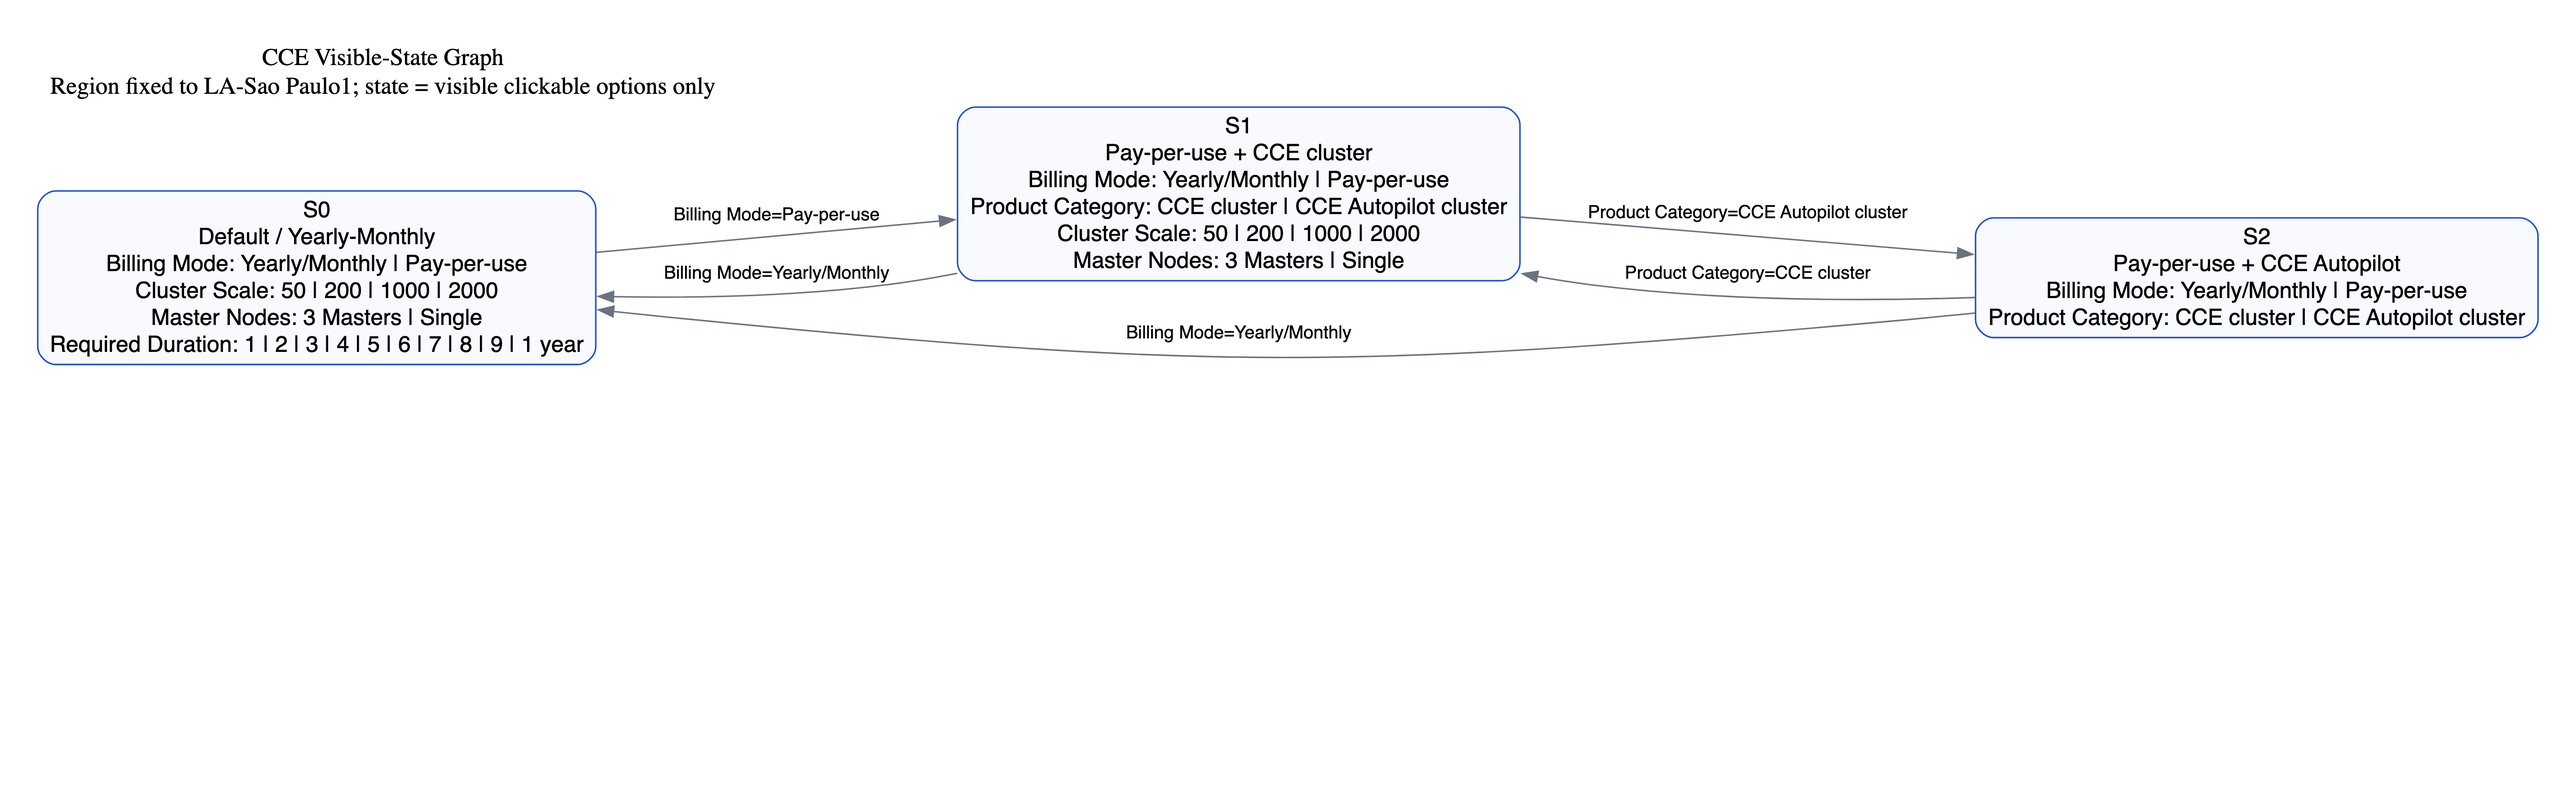
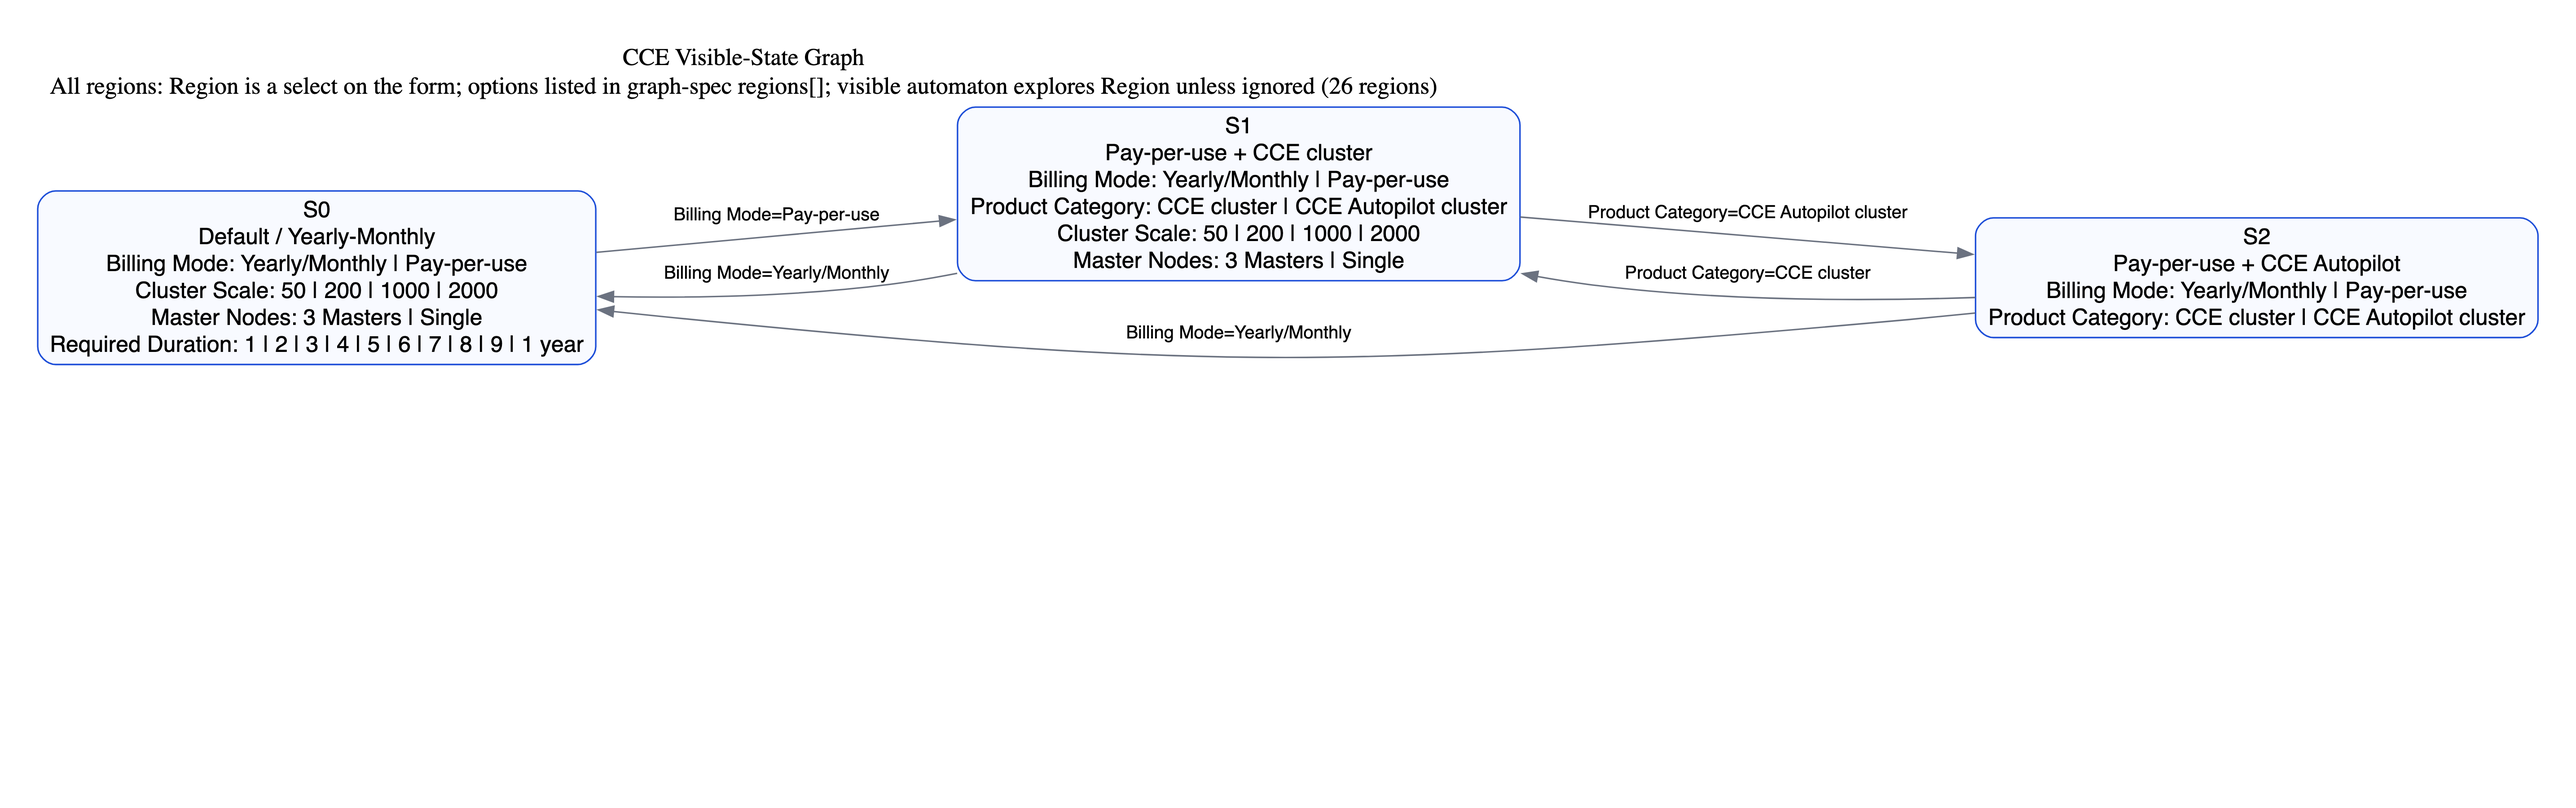
feat: all regions in graph-specs JSON; visible automaton includes Region by default
- collectRegionDropdownOptions() + render fetches regions[] unless --skip-region-fetch
- Default HUAWEI_AUTOMATON_IGNORE_LABELS AZ,Sub-AZ (Region explored in BFS)
- README: GRAPH_SKIP_REGION_FETCH, ignore-labels semantics

Made-with: Cursor

Changed region(s): [[0.0, 0.0622, 0.5615, 0.1244]]

diff --git a/src/render-service-graph.ts b/src/render-service-graph.ts
@@ -2,6 +2,11 @@ import { mkdir, writeFile } from "node:fs/promises";
 import path from "node:path";
 import { chromium } from "playwright";
 import { instance } from "@viz-js/viz";
+import {
+  calculatorUrlForService,
+  collectRegionDropdownOptions,
+  dismissCalculatorOverlays,
+} from "./huawei-ecs-calculator-options.js";
 
 const OUTPUT_DIR = path.resolve("graphs");
 /** Hand-maintained graph specs as JSON (same basename as PNGs in `graphs/`). */
@@ -31,6 +36,8 @@ type GraphSpec = {
   subtitle: string;
   states: GraphState[];
   edges: GraphEdge[];
+  /** Populated at export time from the live Region dropdown (unless --skip-region-fetch). */
+  regions?: string[];
 };
 
 function getServiceArg(): string {
@@ -42,12 +49,48 @@ function getServiceArg(): string {
   return "cce";
 }
 
+/** Hash segment for calculator URL (DCS uses `redis` in practice). */
+function calculatorSlugForService(service: string): string {
+  const s = service.toLowerCase();
+  if (s === "dcs") return "redis";
+  return s;
+}
+
+function shouldSkipRegionFetch(): boolean {
+  return (
+    process.argv.includes("--skip-region-fetch") ||
+    process.env.GRAPH_SKIP_REGION_FETCH === "1"
+  );
+}
+
+async function fetchRegionsForCalculator(service: string): Promise<string[]> {
+  const slug = calculatorSlugForService(service);
+  const browser = await chromium.launch({ headless: true });
+  try {
+    const page = await browser.newPage({ viewport: { width: 1600, height: 1200 } });
+    await page.goto(calculatorUrlForService(slug), {
+      waitUntil: "domcontentloaded",
+      timeout: 90_000,
+    });
+    await page.getByRole("tab", { name: "Price Calculator" }).waitFor({ timeout: 90_000 });
+    await dismissCalculatorOverlays(page);
+    await page.waitForTimeout(280);
+    return await collectRegionDropdownOptions(page);
+  } catch (error) {
+    console.warn("Could not fetch regions (offline or UI change):", error);
+    return [];
+  } finally {
+    await browser.close();
+  }
+}
+
 function getGraphSpec(service: string): GraphSpec {
   if (service === "cce") {
     return {
       name: "cce",
       title: "CCE Visible-State Graph",
-      subtitle: "Region fixed to LA-Sao Paulo1; state = visible clickable options only",
+      subtitle:
+        "All regions: Region is a select on the form; options listed in graph-spec regions[]; visible automaton explores Region unless ignored",
       states: [
         {
           id: "S0",
@@ -92,7 +135,8 @@ function getGraphSpec(service: string): GraphSpec {
     return {
       name: "redis",
       title: "DCS (for Redis) Visible-State Graph",
-      subtitle: "Default calculator region; state = visible clickable options only",
+      subtitle:
+        "All regions: Region select + visible controls; see regions[] in JSON; automaton includes Region by default",
       states: [
         {
           id: "R0",
@@ -207,7 +251,7 @@ function getGraphSpec(service: string): GraphSpec {
       name: "rds",
       title: "RDS Visible-State Graph",
       subtitle:
-        "Buttons + readonly selects; HA read replica hides General-purpose; instance spec select options depend on class",
+        "All regions: Region select + buttons/selects; HA read replica hides General-purpose; see regions[] in JSON",
       states: [
         {
           id: "D0",
@@ -394,6 +438,13 @@ async function main(): Promise<void> {
   const spec = getGraphSpec(service);
   await mkdir(OUTPUT_DIR, { recursive: true });
   await mkdir(GRAPH_SPECS_JSON_DIR, { recursive: true });
+
+  if (!shouldSkipRegionFetch()) {
+    spec.regions = await fetchRegionsForCalculator(service);
+    if (spec.regions.length) {
+      spec.subtitle = `${spec.subtitle} (${spec.regions.length} regions)`;
+    }
+  }
 
   const jsonPath = path.join(GRAPH_SPECS_JSON_DIR, `${spec.name}.json`);
   await writeFile(jsonPath, `${JSON.stringify(spec, null, 2)}\n`, "utf8");

diff --git a/src/huawei-ecs-calculator-options.ts b/src/huawei-ecs-calculator-options.ts
@@ -91,6 +91,50 @@ export async function dismissCalculatorOverlays(page: Page): Promise<void> {
  * Returns option labels for the currently visible TinyVue select popper (if any).
  * Handles the special region dropdown (`.tvp-region__option-content-item[title]`).
  */
+function normalizeFormLabel(raw: string | null | undefined): string {
+  return (raw ?? "").replace(/\s+/g, " ").trim();
+}
+
+/**
+ * Opens the **Region** readonly select on the active calculator form and returns all option titles.
+ * Closes the dropdown afterward. Returns [] if no Region row is found.
+ */
+export async function collectRegionDropdownOptions(page: Page): Promise<string[]> {
+  const root = defaultCalculatorFormRoot(page);
+  await root.waitFor({ timeout: 30_000 }).catch(() => undefined);
+  const items = root.locator(".tiny-form-item");
+  const count = await items.count();
+
+  for (let i = 0; i < count; i++) {
+    const item = items.nth(i);
+    const label = normalizeFormLabel(
+      await item.locator(".tiny-form-item__label").first().innerText().catch(() => ""),
+    );
+    if (label !== "Region") continue;
+
+    const input = item.locator("input.tiny-input__inner[readonly]").first();
+    if ((await input.count()) === 0) return [];
+
+    await input.click({ force: true });
+    try {
+      await page.locator(".tiny-select-dropdown.tiny-popper").last().waitFor({
+        state: "visible",
+        timeout: 8000,
+      });
+    } catch {
+      await page.keyboard.press("Escape").catch(() => undefined);
+      return [];
+    }
+
+    const opts = await readOpenTinySelectDropdownOptions(page);
+    await page.keyboard.press("Escape").catch(() => undefined);
+    await page.waitForTimeout(150);
+    return opts;
+  }
+
+  return [];
+}
+
 export async function readOpenTinySelectDropdownOptions(page: Page): Promise<string[]> {
   return page.evaluate(() => {
     const pops = [...document.querySelectorAll(".tiny-select-dropdown.tiny-popper")];

diff --git a/src/huawei-pricing-visible-automaton.ts b/src/huawei-pricing-visible-automaton.ts
@@ -79,7 +79,10 @@ function getRegionArg(): string | null {
 }
 
 function getIgnoreLabels(): Set<string> {
-  const raw = parseArgValue("--ignore-labels") ?? process.env.HUAWEI_AUTOMATON_IGNORE_LABELS ?? "Region";
+  const raw =
+    parseArgValue("--ignore-labels") ??
+    process.env.HUAWEI_AUTOMATON_IGNORE_LABELS ??
+    "AZ,Sub-AZ";
   return new Set(
     raw
       .split(",")

diff --git a/README.md b/README.md
@@ -6,9 +6,9 @@ Playwright probes and state graphs for the Huawei Cloud **pricing calculator** (
 
 | Command | Description |
 |--------|-------------|
-| `npm run probe:huawei-pricing-visible-automaton -- --service=rds` | BFS over UI states (buttons + readonly selects). |
+| `npm run probe:huawei-pricing-visible-automaton -- --service=rds` | BFS over UI states (Region select + buttons + other selects). |
 | `npm run probe:huawei-pricing-automaton -- --service=cce` | Full automaton (concurrency + quick signature). |
-| `npm run render:service-graph -- --service=rds` | Writes `graph-specs/<service>.json` and `graphs/<service>.png` from the hand-maintained spec. |
+| `npm run render:service-graph -- --service=rds` | Writes `graph-specs/<service>.json` (with live `regions[]`) and `graphs/<service>.png`. Use `--skip-region-fetch` for offline. |
 | `npm test` | Unit tests (offline). |
 | `npm run test:live` | Hits the live calculator (needs network); set `HUAWEI_LIVE_TEST=1` is automatic in script. |
 
@@ -20,11 +20,13 @@ Playwright probes and state graphs for the Huawei Cloud **pricing calculator** (
 | `HUAWEI_AUTOMATON_CONCURRENCY` | `4` | Worker pool for `huawei-pricing-automaton`. |
 | `HUAWEI_VISIBLE_AUTOMATON_CONCURRENCY` | `4` | Worker pool for `huawei-pricing-visible-automaton`. |
 | `HUAWEI_VISIBLE_AUTOMATON_MAX_STATES` | _(unset)_ | Cap BFS states (safety / faster partial runs). |
+| `HUAWEI_AUTOMATON_IGNORE_LABELS` | `AZ,Sub-AZ` | Visible automaton: labels to skip. **Region is not ignored** so every region is a valid `Region=<name>` transition. Use `Region,AZ,Sub-AZ` to keep the old “single region page” behavior. |
 | `HUAWEI_LIVE_TEST` | _(unset)_ | Set to `1` for live Playwright regression tests. |
 | `GRAPH_RENDER_DPR` | `2.5` | Device scale for `render:service-graph` PNGs (try `3` if text is still small). |
+| `GRAPH_SKIP_REGION_FETCH` | _(unset)_ | Set to `1` to skip opening the calculator when exporting graph JSON (no `regions[]`). Same as CLI `--skip-region-fetch`. |
 
 ## Outputs
 
 - `graphs/` — PNG exports from `render:service-graph`.
-- `graph-specs/` — Same graph definitions as structured JSON (`name`, `title`, `subtitle`, `states`, `edges`).
+- `graph-specs/` — Graph definitions as JSON (`name`, `title`, `subtitle`, `states`, `edges`, plus **`regions`** from the live Region dropdown when `render:service-graph` runs online).
 - `playwright-output/` — Automaton JSON/DOT/SVG/PNG from probe scripts (gitignored).
